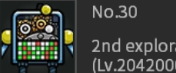
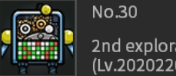
few amends

diff --git a/run.py b/run.py
@@ -36,7 +36,7 @@ class wR():
     spirit_rest = False
     delay = 0.5
     delay_small = 0.1
-    max_revive = 25300
+    max_revive = 25700
     min_revive = max_revive - 400    
 
     start_time = time.time()
@@ -63,7 +63,7 @@ class wR():
         self.max_quests_timer.start()
         self.upgrade_units_timer = Timer(8 * 60, upgrade_units)
         self.upgrade_units_timer.start()
-        self.buy_units_timer = Timer(2 * 60, buy_units)
+        self.buy_units_timer = Timer(10, buy_units)
         self.buy_units_timer.start()
         logging.info('START timer - done')
 
@@ -532,27 +532,27 @@ def level_check():
             logging.debug('wR.level_filter = {}'.format(wR.level_filter))
         finally:
             filtered_level = statistics.median(wR.level_filter)
-            # logging.debug('filtered_level = {} wR.level_filter = {}'.format(filtered_level, wR.level_filter))
-            # logging.debug('time.time() - wR.level_check_time >= 60 ?')
-            # if time.time() - wR.level_check_time >= 15:
-            #     wR.level_check_time = time.time()
-            #     logging.debug('statistics.median(wR.level_filter[:5]) = {}, statistics.median(wR.level_filter[-6:-1]) '
-            #                   '= {}'.format(statistics.median(wR.level_filter[:5]), statistics.median(wR.level_filter[-6:-1])))
-            #     logging.debug('Yes. statistics.median(wR.level_filter[:5]) - statistics.median(wR.level_filter[-6:-1]) < 10 ?')
-            #     if statistics.median(wR.level_filter[:5]) - statistics.median(wR.level_filter[-6:-1]) < 10:
-            #         logging.debug('Yes. statistics.median(wR.level_filter) > 20800 ?')
-            #         if statistics.median(wR.level_filter) > wR.min_revive:
-            #             wR.max_level_reached = True
-            #             logging.debug('Yes. wR.max_level_reached = {}'.format(wR.max_level_reached))
-            #         else:
-            #             logging.debug('No.')
-            #     else:
-            #         logging.debug('No.')
+            logging.debug('filtered_level = {} wR.level_filter = {}'.format(filtered_level, wR.level_filter))
             logging.info('time.time() - wR.start_time > 63*60 ?')
-            if time.time() - wR.start_time > 63*60:
-                wR.max_level_reached = True
-                logging.debug('Yes. 63 minutes passed since last revive. reviving')
-                print('over 63 minutes since last revive')
+            if time.time() - wR.start_time > 60*60:
+                if time.time() - wR.start_time > 65*60:
+                    logging.debug('time.time() - wR.start_time > 83*60 ! reviving')
+                    wR.max_level_reached = True
+                    logging.debug('time.time() - wR.level_check_time >= 15 ?')
+                elif time.time() - wR.level_check_time >= 15:
+                    wR.level_check_time = time.time()
+                    logging.debug('statistics.median(wR.level_filter[:5]) = {}, statistics.median(wR.level_filter[-6:-1]) '
+                                  '= {}'.format(statistics.median(wR.level_filter[:5]), statistics.median(wR.level_filter[-6:-1])))
+                    logging.debug('Yes. statistics.median(wR.level_filter[:5]) - statistics.median(wR.level_filter[-6:-1]) < 10 ?')
+                    if statistics.median(wR.level_filter[:5]) - statistics.median(wR.level_filter[-6:-1]) < 10:
+                        logging.debug('Yes. statistics.median(wR.level_filter) > 20800 ?')
+                        if statistics.median(wR.level_filter) > wR.min_revive:
+                            wR.max_level_reached = True
+                            logging.debug('Yes. wR.max_level_reached = {}'.format(wR.max_level_reached))
+                        else:
+                            logging.debug('No.')
+                    else:
+                        logging.debug('No.')
             else:
                 logging.debug('No.')
 
@@ -660,7 +660,8 @@ def max_quests():
                     elif pyautogui.locateCenterOnScreen('./pictures/last_drag.png', region=(675, 545, 300, 120)):
                         logging.info('last_drag found')
                         wR.last_drag_reached = True
-                        wR.quests_add_rel += 2 * drag_by / 3
+                        if 692 + wR.quests_add_rel + 2 * drag_by / 3 < 845:
+                            wR.quests_add_rel += 2 * drag_by / 3
                         pyautogui.click(x, y)
                         time.sleep(wR.delay)
                         logging.debug('wR.last_drag_reached = {} wR.quests_add_rel = {}'.format(wR.last_drag_reached, wR.quests_add_rel))
